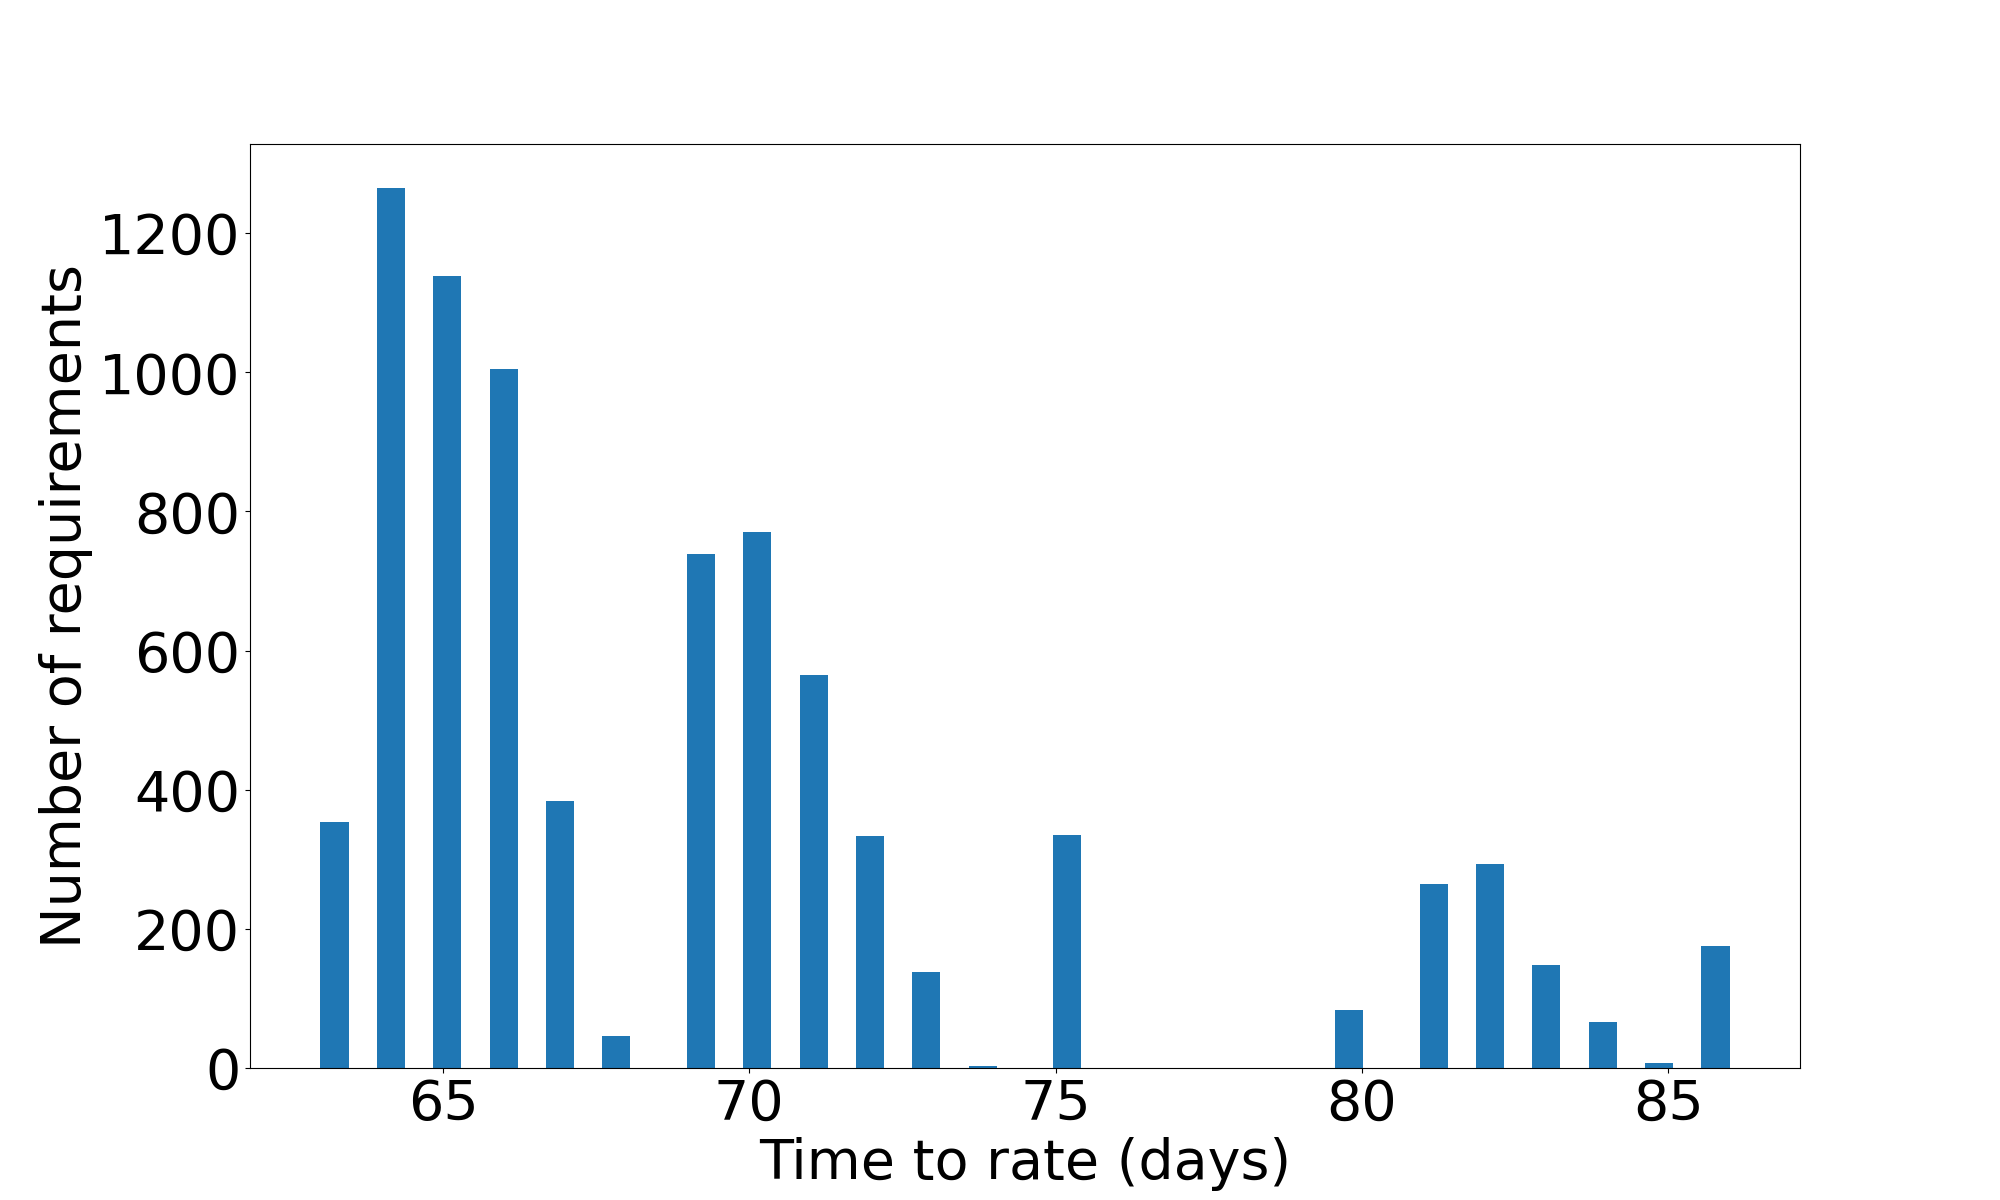
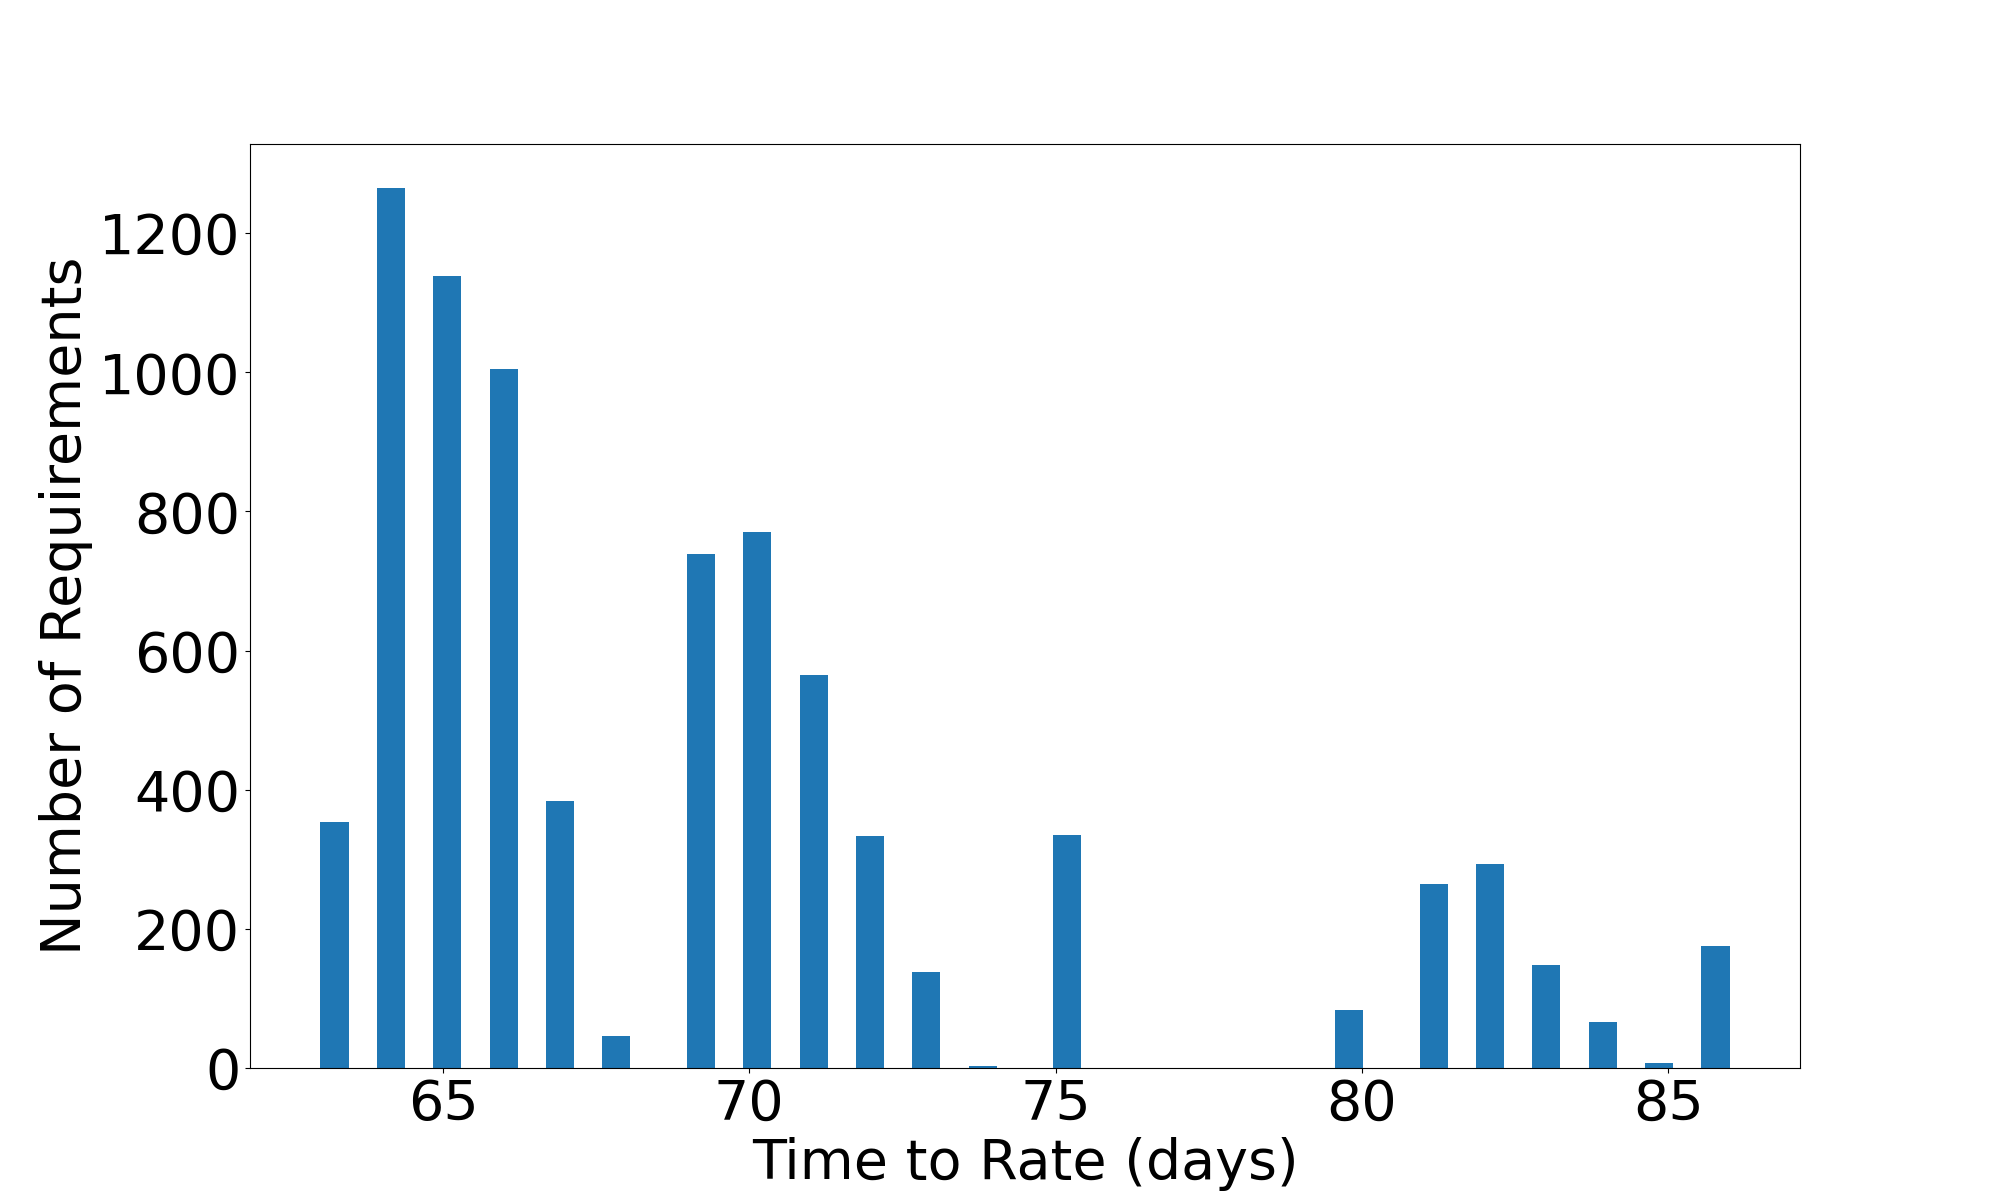
update rate plot

Changed region(s): [[0.0, 0.2158, 0.062, 0.5858], [0.0, 0.6167, 0.062, 0.8017], [0.372, 0.9558, 0.651, 1.0]]

diff --git a/src/exploration/rate.py b/src/exploration/rate.py
@@ -1,36 +1,42 @@
-# This is to convert the time in the requirements.csv to rate. 
-# We have used this code to gind out the rate and them plotted a plot for the rate
+# This script converts the time information in requirements.csv to a rate metric.
+# We used this code to determine the rate and subsequently plotted a graph for it.
 # %%
 import pandas as pd
 import numpy as np
 import matplotlib.pyplot as plt
-# set figure text size to 25
+
+# Set the figure text size to 40
 plt.rcParams.update({'font.size': 40})
 
-reqs_df = pd.read_csv('../../crowdre_question/requirements.csv')[['id', 'created_at']]
-reqs_df['created_at'] = pd.to_datetime(reqs_df['created_at'])
+# Load the data from CSV files
+requirements_df = pd.read_csv('../../crowdre_question/requirements.csv')[['id', 'created_at']]
+requirements_df['created_at'] = pd.to_datetime(requirements_df['created_at'])
+
 ratings_df = pd.read_csv('../../crowdre_question/requirements_ratings.csv')[['requirement_id', 'created_at']]
 ratings_df['created_at'] = pd.to_datetime(ratings_df['created_at'])
-# rename column to rated at
-ratings_df.rename(columns={'created_at': 'rated_at'}, inplace=True)
-# merge reqs_df and ratings_df
-df = pd.merge(reqs_df, ratings_df, left_on='id', right_on='requirement_id')
-# drop requirement_id column
-df.drop(columns=['requirement_id'], inplace=True)
-# get time difference between created_at and rated_at
-df['time_to_rate'] = df['rated_at'] - df['created_at']
-# convert time_to_rate to days
-df['time_to_rate'] = df['time_to_rate'].dt.days
 
-# plot histogram of time_to_rate
-plt.figure(figsize=(20, 12))
-plt.hist(df['time_to_rate'], bins=50)
-plt.xlabel('Time to rate (days)')
-plt.ylabel('Number of requirements')
-# save plot
-plt.savefig('../../exploratory_plots/rate.png')
-# print mean time_to_rate
-print(f'Mean time to rate: {np.mean(df["time_to_rate"]):.0f} days')
-# print min time_to_rate
-print(f'Min time to rate: {np.min(df["time_to_rate"])} days')
+# Rename 'created_at' column to 'rated_at' in the ratings dataframe
+ratings_df.rename(columns={'created_at': 'rated_at'}, inplace=True)
+
+# Merge the requirements and ratings dataframes on the relevant keys
+merged_df = pd.merge(requirements_df, ratings_df, left_on='id', right_on='requirement_id')
+
+# Remove the 'requirement_id' column as it is no longer needed
+merged_df.drop(columns=['requirement_id'], inplace=True)
+
+# Calculate the time difference between creation and rating dates
+merged_df['rating_time'] = merged_df['rated_at'] - merged_df['created_at']
 # %%
+
+# Convert the time difference to days
+merged_df['rating_time'] = merged_df['rating_time'].dt.days
+
+# Plot a histogram of the time taken to rate
+plt.figure(figsize=(20, 12))
+plt.hist(merged_df['rating_time'], bins=50)
+plt.xlabel('Time to Rate (days)')
+plt.ylabel('Number of Requirements')
+
+# Save the plot as a PNG file
+plt.savefig('../../exploratory_plots/rate.png')
+
